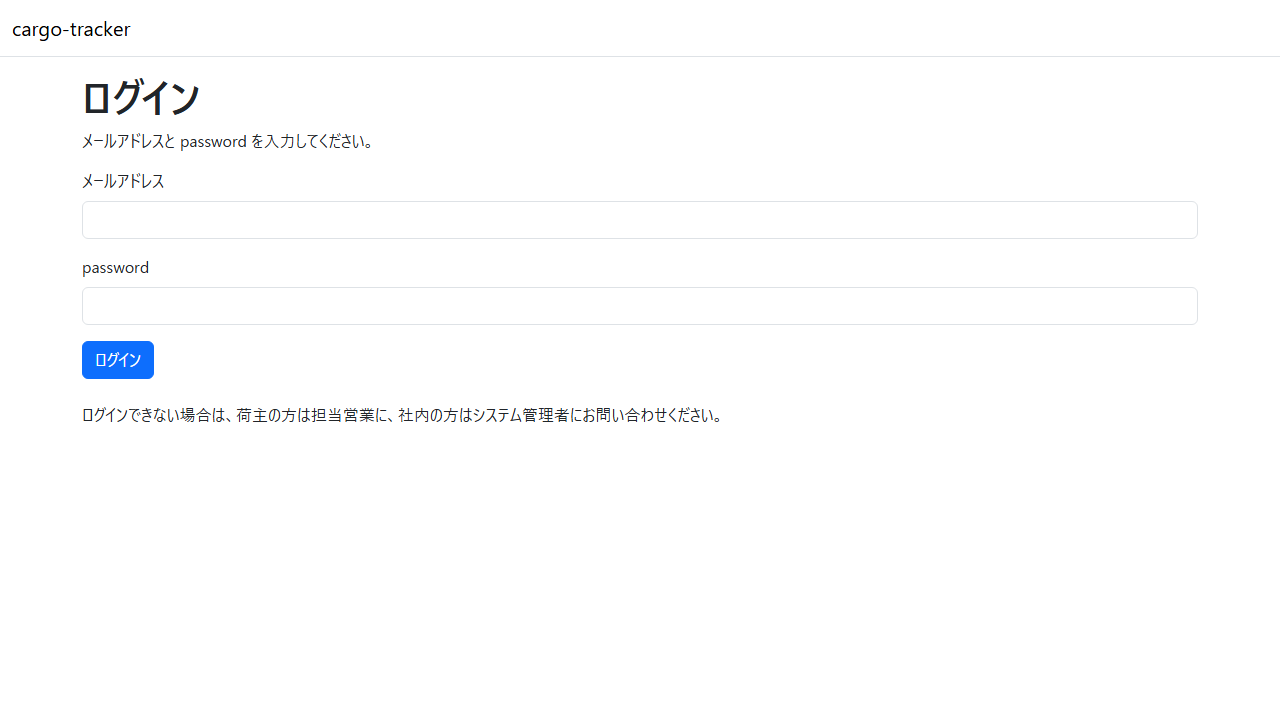
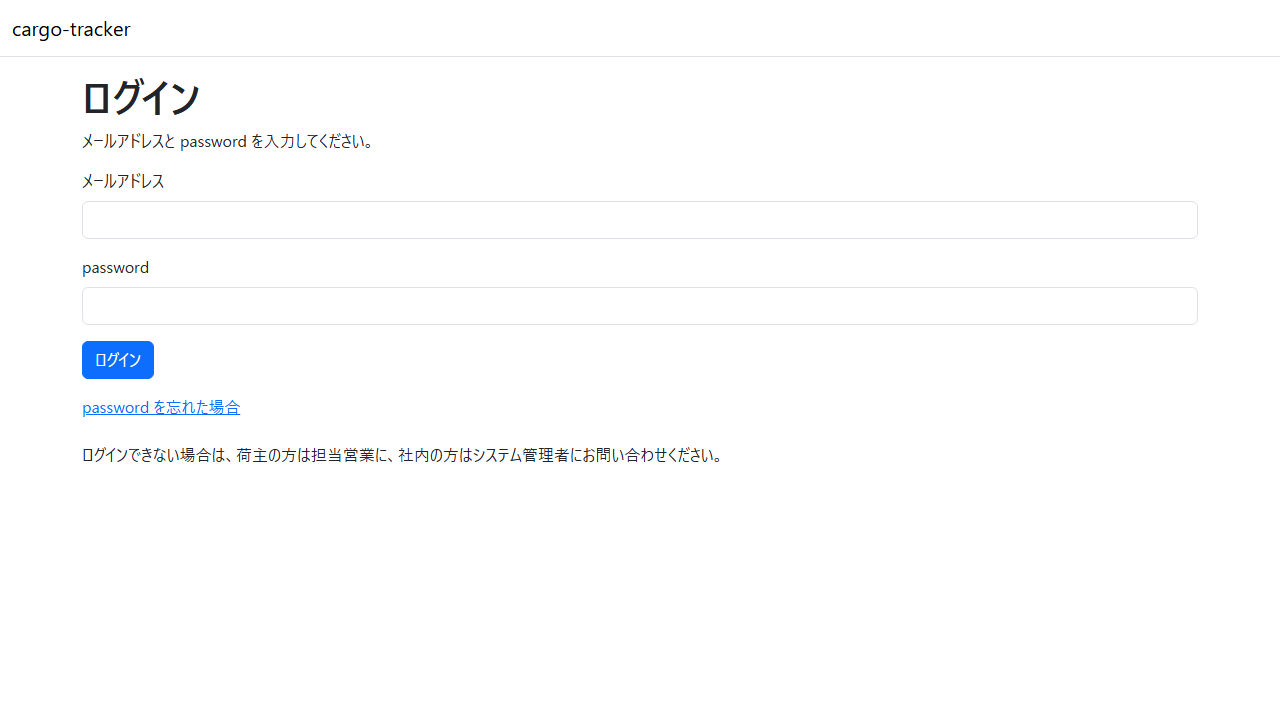
docs(manual): password の再設定の依頼をマニュアルの 2 章と付録 B に書く
2.6「password を忘れた場合」（A-05、知らせ、30 分・1 回だけ、1 分以内は
送らない）、2.1 のリンク、付録 B の Q1-6 とエラーメッセージを足した。
A-05 のキャプチャを足し、A-01 を撮り直した。A-06 の手順は Bolt 33a。

Changed region(s): [[0.0625, 0.6111, 0.5625, 0.6417], [0.0625, 0.55, 0.5625, 0.5806]]

diff --git a/docs/manual/02-ログインと共通の画面.md b/docs/manual/02-ログインと共通の画面.md
@@ -4,7 +4,7 @@ title: "2 章 ログインと共通の画面"
 description: "cargo-tracker にログインする手順と、どの役割でも共通の画面（画面の構成、権限がない画面、もう一度ログインする画面）を説明します。"
 tags: [manual,cargo-tracker]
 status: draft
-generated: { by: anthropic/claude-opus-5-5, at: 2026-10-14T14:16:15Z }
+generated: { by: anthropic/claude-opus-5-5, at: 2026-10-15T02:09:22Z }
 ---
 
 # 2 章 ログインと共通の画面
@@ -20,6 +20,7 @@ cargo-tracker にログインする手順と、どの役割でも共通の画面
 | 権限がありません | 役割にない画面を開いたときに示される | [2.3](#23-権限がありません) |
 | もう一度ログインしてください | 一定時間が過ぎたとき、または管理者が利用を止めたときにログアウトして示される | [2.4](#24-もう一度ログインしてください) |
 | まもなくログアウトします | ログアウトの 5 分前に画面の中央に開く警告。ログインを延長できる | [2.5](#25-まもなくログアウトします) |
+| password の再設定の依頼 | password を忘れたときに、再設定のリンクをメールで受け取る | [2.6](#26-password-を忘れた場合) |
 
 ## 2.1 ログイン
 
@@ -40,6 +41,7 @@ cargo-tracker にログインする手順と、どの役割でも共通の画面
 | ① | メールアドレス | 利用者として登録されたメールアドレス |
 | ② | password | 利用者の password |
 | ③ | 「ログイン」 | 入力した内容でログインします |
+| ④ | 「password を忘れた場合」 | password の再設定の依頼の画面（[2.6](#26-password-を忘れた場合)）を開きます |
 
 ### 操作手順
 
@@ -50,6 +52,7 @@ cargo-tracker にログインする手順と、どの役割でも共通の画面
 ### 注意・補足
 
 - メールアドレスか password が違うと、「メールアドレスまたは password が正しくありません。」と示されます。どちらが違うかは示しません
+- password を忘れた場合は、「password を忘れた場合」から再設定のリンクをメールで受け取れます（[2.6](#26-password-を忘れた場合)）
 - ログインできない場合は、荷主の方は担当営業に、社内の方はシステム管理者にお問い合わせください
 - 画面の右上の「ログアウト」をクリックするとログアウトし、ログインの画面に「ログアウトしました。」と示されます
 - 共用のパソコンでは、離れる前に必ず「ログアウト」を押してください。画面の右上の「ログアウト」を押すと、そのタブに控えていた入力（[2.5](#25-まもなくログアウトします)）も消えます。控えはタブごとなので、ほかのタブも閉じてから離れてください（[2.4](#24-もう一度ログインしてください) の注意・補足）
@@ -225,3 +228,39 @@ cargo-tracker にログインする手順と、どの役割でも共通の画面
 - 「送信できなかった入力があります。」と示されたら、「入力していた画面を開く」を押すと入力が戻ります。要らなければ「入力していた内容を消す」を押してください。どちらかを押すまで、ほかの画面を開いても示されます
 - 控えていた入力は、画面の右上の「ログアウト」でログアウトしたとき、別の人がそのタブでログインしたとき、入力が戻ったときに消えます。控えてから 8 時間を過ぎると、入力は戻しません
 - 同じブラウザのほかのタブで画面を開いたり延長したりすると、どのタブでもログアウトまでの時間を数え直し、警告は閉じます
+
+## 2.6 password を忘れた場合
+
+### この画面でできること
+
+- 登録しているメールアドレスに、password を再設定するためのリンクを送ってもらいます
+
+### 画面の開き方
+
+- ログインの画面（[2.1](#21-ログイン)）の「password を忘れた場合」をクリックします（URL: `/password-reset`）
+
+### 画面の説明
+
+![password の再設定の依頼](assets/02-password-reset.png)
+
+| # | 項目 | 説明 |
+| :--- | :--- | :--- |
+| ① | メールアドレス | 利用者として登録しているメールアドレス |
+| ② | 「再設定のリンクを送る」 | 入力したメールアドレスに再設定のリンクを送るよう依頼します |
+| ③ | 「ログインに戻る」 | ログインの画面に戻ります |
+
+### 操作手順
+
+1. 「メールアドレス」を入力します
+2. 「再設定のリンクを送る」をクリックします
+3. ログインの画面に戻り、「依頼を受け付けました。…」と示されます
+4. 登録しているメールアドレスに「【cargo-tracker】password の再設定のご案内」のメールが届きます
+
+### 注意・補足
+
+- 入力したメールアドレスが登録されているかどうかは、画面に示しません。登録されていて、ご利用いただける状態のときだけメールが届きます
+- メールのリンクの有効期限は 30 分で、1 回だけ使えます。もう一度依頼すると、前に送ったリンクは使えなくなります
+- 前の依頼から 1 分以内にもう一度依頼しても、メールは送られません。数分たっても届かない場合は、迷惑メールのフォルダを確かめてから、1 分以上たってもう一度依頼してください
+- メールの本文には、リンクと期限だけが書かれています。依頼した覚えのないメールが届いた場合は、何もしなくてかまいません。リンクを開かなければ password は変わりません
+- メールアドレスの欄が空か形が正しくないと、欄の下に「メールアドレスを入力してください。」か「メールアドレスの形式が正しくありません。例: user@example.com」と示されます
+- それでも届かない場合は、荷主の方は担当営業に、社内の方はシステム管理者にお問い合わせください

diff --git a/docs/manual/付録B-トラブルシューティング.md b/docs/manual/付録B-トラブルシューティング.md
@@ -4,7 +4,7 @@ title: "付録 B トラブルシューティング"
 description: "困ったときの症状から引く Q&A です。"
 tags: [manual,cargo-tracker]
 status: draft
-generated: { by: anthropic/claude-opus-5-5, at: 2026-10-14T14:16:15Z }
+generated: { by: anthropic/claude-opus-5-5, at: 2026-10-15T02:09:22Z }
 ---
 
 # 付録 B トラブルシューティング
@@ -49,6 +49,15 @@ generated: { by: anthropic/claude-opus-5-5, at: 2026-10-14T14:16:15Z }
 | 画面の先頭に「ログアウトした可能性があります。」と示された | ログアウトの時刻を過ぎました。入力中の内容は送信されていません。「画面を開き直す」を押すと、入力をこのタブに控えてから開き直し、開いた画面に入力が戻ります（ログインを求められたら、ログインし直した後に戻ります）。「もう一度ログインする」と示されたときは、入力を控えられない画面です。必要なら入力を書き写してから押してください（[2.5](02-ログインと共通の画面.md#25-まもなくログアウトします)） |
 | 「送信できなかった入力があります。」と示された | 「提出」などを押したとき、ログアウトしていた・ほかのタブでログインし直していた・ファイルが大きすぎたなどのため、送信されていません。「入力していた画面を開く」を押すと入力が戻ります。ログインから 8 時間のぎわに送信した場合は、まれに送信できていることがあるので、一覧で確かめてから送信してください。要らなければ「入力していた内容を消す」を押してください |
 | 警告の中に「延長できませんでした。」と示された | もう一度「ログインを延長する」を押してください。ログアウトしても、入力中の内容はこのタブでログインし直すと戻ります |
+
+### Q1-6. password の再設定のメールが届かない
+
+| 確認すること | 対処 |
+| :--- | :--- |
+| 登録しているメールアドレスを入れたか | 入れ直してもう一度依頼してください。登録されていないアドレスには送られません（画面には示しません） |
+| 迷惑メールのフォルダに入っていないか | 「【cargo-tracker】password の再設定のご案内」を探してください |
+| 前の依頼から 1 分以内に依頼し直していないか | 1 分以内の依頼ではメールは送られません。1 分以上たってからもう一度依頼してください（[2.6](02-ログインと共通の画面.md#26-password-を忘れた場合)） |
+| それでも届かない | 荷主の方は担当営業に、社内の方はシステム管理者にお問い合わせください |
 
 ## 2. 荷主の画面
 
@@ -121,6 +130,7 @@ generated: { by: anthropic/claude-opus-5-5, at: 2026-10-14T14:16:15Z }
 | メッセージ | 主な画面 | 対処 |
 | :--- | :--- | :--- |
 | 入力してください | 各画面 | 必須の項目を入れてください |
+| メールアドレスを入力してください。・メールアドレスの形式が正しくありません。例: user@example.com | password の再設定の依頼 | 登録しているメールアドレスを入れてください |
 | UN/LOCODE（国コード 2 文字 + 地点コード 3 文字、例: JPTYO）で入力してください | 見積依頼の作成、主要実績の登録 | 港の 5 文字のコードで入れてください |
 | 同じ港が出発地に入っています。別の港を入力してください | 見積依頼の作成 | 目的地に出発地と違う港を入れてください |
 | 過ぎているか、提出する時刻と同じです。提出する時刻より後の日時を入力してください | 見積依頼の作成（希望到着期限） | 提出する時刻より後の日時を入れてください |

diff --git a/docs/log.md b/docs/log.md
@@ -4,6 +4,9 @@
 * **Update**: [付録B-トラブルシューティング](/manual/付録B-トラブルシューティング.md) を更新（anthropic/claude-opus-5-5）
 * **Update**: [02-ログインと共通の画面](/manual/02-ログインと共通の画面.md) を更新（anthropic/claude-opus-5-5）
 * **Update**: [bolt_33_plan](/development/cargo-tracker/bolt_33_plan.md) を更新（anthropic/claude-opus-5-5）
+* **Update**: [付録B-トラブルシューティング](/manual/付録B-トラブルシューティング.md) を更新（anthropic/claude-opus-5-5）
+* **Update**: [02-ログインと共通の画面](/manual/02-ログインと共通の画面.md) を更新（anthropic/claude-opus-5-5）
+* **Update**: [bolt_33_plan](/development/cargo-tracker/bolt_33_plan.md) を更新（anthropic/claude-opus-5-5）
 * **Update**: [bolt_33_plan](/development/cargo-tracker/bolt_33_plan.md) を更新（anthropic/claude-opus-5-5）
 * **Update**: [domain_model](/design/cargo-tracker/domain_model.md) を更新（anthropic/claude-opus-5-5）
 * **Update**: [architecture_backend](/design/cargo-tracker/architecture_backend.md) を更新（anthropic/claude-opus-5-5）
